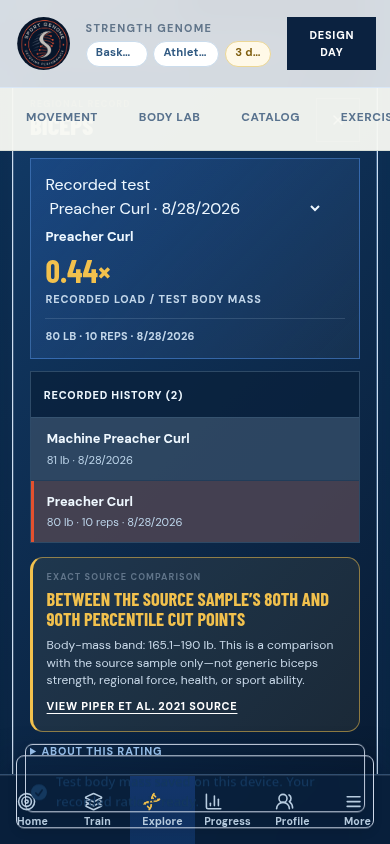
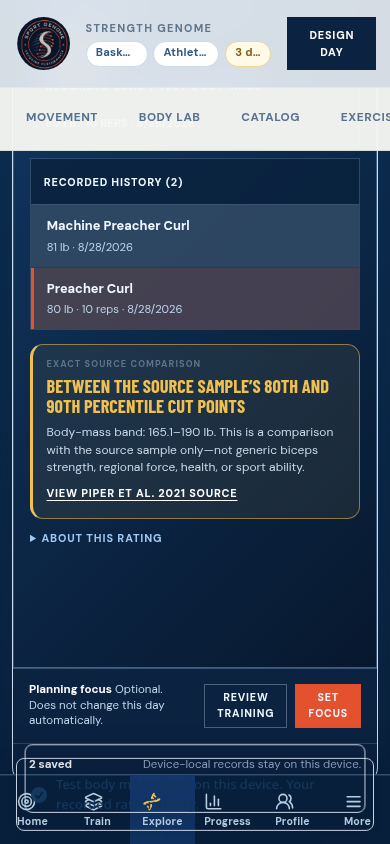
Checkpoint: Published the completed Strength Genome interaction-feedback refinement. Interactive body-map regions, the accessible selector, Review, close, history selection, and ratio completion use nonblocking optional browser feedback with visible pressed/focus states. The actual body-muscles SVG 

diff --git a/client/src/components/StrengthGenomePanel.tsx b/client/src/components/StrengthGenomePanel.tsx
@@ -62,6 +62,10 @@ export function StrengthBodyMassInput({ weightUnit, value, onChange }: { weightU
   return <label className="grid gap-1.5"><span className="text-[10px] font-bold uppercase tracking-[.12em] text-[#9eb3cb]">Body mass at test ({weightUnit})</span><input aria-label={`Body mass at test in ${weightUnitLabel(weightUnit)}`} inputMode="decimal" value={value} onChange={(event) => onChange(event.target.value.replace(/[^0-9.]/g, ""))} placeholder="Optional" className="h-11 rounded-xl border border-white/20 bg-white/5 px-3 text-sm text-white outline-none placeholder:text-[#829ab3] focus:border-[#5b9cf1] focus:ring-2 focus:ring-[#5b9cf1]/30" /></label>;
 }
 
+export function StrengthObservationReviewButton({ observation, onReview }: { observation: StrengthObservationRecord; onReview: (observation: StrengthObservationRecord) => void }) {
+  return <button type="button" onClick={() => { emitInteractionFeedback(); onReview(observation); }} className="strength-observation-review">Review</button>;
+}
+
 export function StrengthRegionRecordDetail({ region, observations, onClose, weightUnit, directAccess, onSetDeviceBodyMass, initialRecordId = "" }: { region: StrengthRegionDefinition; observations: StrengthObservationRecord[]; onClose: () => void; weightUnit: DisplayWeightUnit; directAccess: boolean; onSetDeviceBodyMass: (observationId: string, bodyMassKgAtTest: number) => void; initialRecordId?: string }) {
   const records = useMemo(() => observations.filter((observation) => resolveStrengthObservationRoute(observation.exerciseName)?.regionIds.includes(region.id)), [observations, region.id]);
   const utils = trpc.useUtils();
@@ -196,7 +200,6 @@ export function StrengthGenomePanel({ onOpenTraining = () => {}, weightUnit = "l
     const regionId = resolveStrengthObservationRoute(observation.exerciseName)?.regionIds[0];
     const region = strengthRegionDefinitions.find((candidate) => candidate.id === regionId);
     if (!region) return;
-    emitInteractionFeedback();
     setSelectedObservationId(String(observation.id));
     setSelectedRegion(region);
   };
@@ -264,7 +267,7 @@ export function StrengthGenomePanel({ onOpenTraining = () => {}, weightUnit = "l
           <span className="inline-flex items-center gap-2 rounded-full border border-[#c8d9e8] bg-white px-3 py-1.5 text-[10px] font-bold uppercase tracking-[.12em] text-[#42647f]"><CircleHelp className="h-3.5 w-3.5" /> {directAccess ? "This device only" : "Observation routing only"}</span>
         </div>
       </div>
-      <StrengthGenomeBodyMap regions={strengthRegionDefinitions.map((region) => ({ ...region, state: regionOverview(region.id)?.state === "OBSERVED_TEST_CONTEXT" ? "OBSERVED_TEST_CONTEXT" as const : "INSUFFICIENT_DATA" as const }))} activePriorityIds={activePriorityIds} selectedRegionId={selectedRegion?.id} onSelect={(region) => { emitInteractionFeedback(); setSelectedRegion(region); }} />
+      <StrengthGenomeBodyMap regions={strengthRegionDefinitions.map((region) => ({ ...region, state: regionOverview(region.id)?.state === "OBSERVED_TEST_CONTEXT" ? "OBSERVED_TEST_CONTEXT" as const : "INSUFFICIENT_DATA" as const }))} activePriorityIds={activePriorityIds} selectedRegionId={selectedRegion?.id} onSelect={setSelectedRegion} />
       {selectedRegion && <div ref={regionDetailRef}><StrengthRegionRecordDetail key={`${selectedRegion.id}-${selectedObservationId}`} region={selectedRegion} observations={activeObservations as StrengthObservationRecord[]} onClose={() => { setSelectedRegion(null); setSelectedObservationId(""); }} weightUnit={weightUnit} directAccess={directAccess} onSetDeviceBodyMass={setDeviceBodyMass} initialRecordId={selectedObservationId} /></div>}
       {selectedRegion && <div className="strength-region-focus-row"><p><strong>Planning focus</strong> Optional. Does not change this day automatically.</p><div><button type="button" onClick={() => { emitInteractionFeedback(); onOpenTraining(); }} className="strength-focus-secondary">Review training</button><button type="button" disabled={setPriority.isPending} onClick={() => { emitInteractionFeedback(); setPriority.mutate({ regionId: selectedRegion.id, active: !activePriorityIds.has(selectedRegion.id) }); }} className={`strength-focus-primary ${activePriorityIds.has(selectedRegion.id) ? "is-active" : ""}`}>{activePriorityIds.has(selectedRegion.id) ? "Focused" : "Set focus"}</button></div></div>}
       <div className="strength-observation-summary"><strong>{activeObservations.length} saved</strong><span>{directAccess ? (activeObservations.length ? "Device-local records stay on this device." : "Add a result to start a device-local record.") : (overview.data?.nextAction || "Add a result to build your record.")}</span></div>
@@ -297,7 +300,7 @@ export function StrengthGenomePanel({ onOpenTraining = () => {}, weightUnit = "l
         <button type="button" disabled={!canSave || addObservation.isPending} onClick={submit} className="mt-5 inline-flex min-h-12 items-center gap-2 rounded-xl bg-[#e4512e] px-4 text-[11px] font-bold uppercase tracking-[.12em] text-white transition active:scale-[.98] disabled:cursor-not-allowed disabled:opacity-50"><Plus className="h-4 w-4" /> {addObservation.isPending ? "Saving observation" : "Save performance observation"}</button>
       </section>
 
-      <aside className="light-panel p-5"><p className="metric-label">Recent observations</p><h2 className="mt-1 font-display text-3xl font-bold uppercase leading-none text-[#102947]">Performance log</h2>{recentObservations.length ? <div className="mt-4 divide-y divide-[#d9e5ef]">{recentObservations.map((observation) => <div key={observation.id} className="flex items-center justify-between gap-3 py-3 first:pt-0"><div><p className="text-sm font-bold text-[#153b61]">{observation.exerciseName}</p><p className="mt-1 text-[11px] text-[#607b91]">{observation.measurementType.replace(/_/g, " ")} · {new Date(observation.observedAt).toLocaleDateString()}</p></div>{directAccess && resolveStrengthObservationRoute(observation.exerciseName) && <button type="button" onClick={() => openSavedObservation(observation as StrengthObservationRecord)} className="shrink-0 rounded-lg border border-[#9fbddd] bg-white px-3 py-2 text-[10px] font-bold uppercase tracking-[.1em] text-[#1b5595]">Review</button>}</div>)}</div> : <div className="mt-4 rounded-xl border border-dashed border-[#c7d8e6] bg-[#f8fbff] p-4"><Activity className="h-5 w-5 text-[#2d6cdf]" /><p className="mt-3 text-sm font-bold text-[#153b61]">No performance data yet</p><p className="mt-1 text-xs leading-5 text-[#607b91]">One standardized result begins your private performance history. No regional strength tier is shown until supporting evidence is available.</p></div>}</aside>
+      <aside className="light-panel p-5"><p className="metric-label">Recent observations</p><h2 className="mt-1 font-display text-3xl font-bold uppercase leading-none text-[#102947]">Performance log</h2>{recentObservations.length ? <div className="mt-4 divide-y divide-[#d9e5ef]">{recentObservations.map((observation) => <div key={observation.id} className="flex items-center justify-between gap-3 py-3 first:pt-0"><div><p className="text-sm font-bold text-[#153b61]">{observation.exerciseName}</p><p className="mt-1 text-[11px] text-[#607b91]">{observation.measurementType.replace(/_/g, " ")} · {new Date(observation.observedAt).toLocaleDateString()}</p></div>{directAccess && resolveStrengthObservationRoute(observation.exerciseName) && <StrengthObservationReviewButton observation={observation as StrengthObservationRecord} onReview={openSavedObservation} />}</div>)}</div> : <div className="mt-4 rounded-xl border border-dashed border-[#c7d8e6] bg-[#f8fbff] p-4"><Activity className="h-5 w-5 text-[#2d6cdf]" /><p className="mt-3 text-sm font-bold text-[#153b61]">No performance data yet</p><p className="mt-1 text-xs leading-5 text-[#607b91]">One standardized result begins your private performance history. No regional strength tier is shown until supporting evidence is available.</p></div>}</aside>
     </div>
   </section>;
 }

diff --git a/client/src/components/StrengthGenomeBodyMap.feedback.interaction.test.ts b/client/src/components/StrengthGenomeBodyMap.feedback.interaction.test.ts
@@ -1,0 +1,66 @@
+// @vitest-environment jsdom
+import React from "react";
+import { fireEvent, render, screen } from "@testing-library/react";
+import { afterEach, describe, expect, it, vi } from "vitest";
+import { strengthRegionDefinitions } from "../../../shared/strengthGenomeDefinitions";
+
+const feedback = vi.hoisted(() => ({ emit: vi.fn() }));
+
+vi.mock("body-muscles", () => ({
+  ViewSide: { FRONT: "front", BACK: "back" },
+  BodyChart: class {
+    constructor(container: HTMLElement, options: { onMuscleClick: (muscleId: string) => void }) {
+      const svg = document.createElementNS("http://www.w3.org/2000/svg", "svg");
+      const path = document.createElementNS("http://www.w3.org/2000/svg", "path");
+      path.classList.add("body-chart-muscle");
+      path.setAttribute("role", "button");
+      path.setAttribute("tabindex", "0");
+      path.setAttribute("aria-label", "Biceps");
+      path.addEventListener("keydown", (event) => { if (event.key === "Enter" || event.key === " ") options.onMuscleClick("biceps-left"); });
+      svg.appendChild(path);
+      container.appendChild(svg);
+    }
+    update() {}
+    destroy() {}
+  },
+}));
+vi.mock("@/lib/interactionFeedback", () => ({ emitInteractionFeedback: feedback.emit }));
+
+import { StrengthGenomeBodyMap } from "./StrengthGenomeBodyMap";
+
+const biceps = strengthRegionDefinitions.find((region) => region.id === "biceps")!;
+const chest = strengthRegionDefinitions.find((region) => region.id === "chest")!;
+const regions = [
+  { ...biceps, state: "OBSERVED_TEST_CONTEXT" as const },
+  { ...chest, state: "INSUFFICIENT_DATA" as const },
+];
+
+describe("Strength Genome map interaction feedback", () => {
+  afterEach(() => { feedback.emit.mockReset(); document.body.innerHTML = ""; });
+
+  it("gives an optional feedback signal for the accessible recorded-region selection and view switch", () => {
+    const onSelect = vi.fn();
+    render(React.createElement(StrengthGenomeBodyMap, { regions, activePriorityIds: new Set<string>(), selectedRegionId: undefined, onSelect }));
+
+    fireEvent.click(screen.getByText("Choose a region"));
+    fireEvent.click(screen.getByText("Biceps"));
+    expect(onSelect).toHaveBeenCalledWith(expect.objectContaining(biceps));
+    expect(feedback.emit).toHaveBeenCalledTimes(1);
+
+    fireEvent.click(screen.getByRole("button", { name: "Back" }));
+    expect(feedback.emit).toHaveBeenCalledTimes(2);
+    expect(screen.getByRole("button", { name: "Front" })).toBeTruthy();
+  });
+
+  it("keeps a rendered muscle path keyboard-addressable and routes its activation through optional feedback", () => {
+    const onSelect = vi.fn();
+    render(React.createElement(StrengthGenomeBodyMap, { regions, activePriorityIds: new Set<string>(), selectedRegionId: undefined, onSelect }));
+    const muscle = document.querySelector<SVGPathElement>(".strength-body-chart .body-chart-muscle")!;
+    expect(muscle.getAttribute("role")).toBe("button");
+    expect(muscle.getAttribute("tabindex")).toBe("0");
+    expect(muscle.getAttribute("aria-label")).toBe("Biceps");
+    fireEvent.keyDown(muscle, { key: "Enter" });
+    expect(feedback.emit).toHaveBeenCalledTimes(1);
+    expect(onSelect).toHaveBeenCalledWith(expect.objectContaining(biceps));
+  });
+});

diff --git a/client/src/components/StrengthGenomeBodyMap.tsx b/client/src/components/StrengthGenomeBodyMap.tsx
@@ -3,6 +3,7 @@ import React from "react";
 import { BodyChart, ViewSide } from "body-muscles";
 import { RotateCw } from "lucide-react";
 import type { StrengthRegionDefinition } from "../../../shared/strengthGenomeDefinitions";
+import { emitInteractionFeedback } from "@/lib/interactionFeedback";
 
 type RegionState = "OBSERVED_TEST_CONTEXT" | "INSUFFICIENT_DATA";
 
@@ -44,7 +45,7 @@ export function StrengthGenomeBodyMap({ regions, activePriorityIds, selectedRegi
     try {
       chartRef.current = new BodyChart(mapRef.current, { view: view === "FRONT" ? ViewSide.FRONT : ViewSide.BACK, bodyState, enableTransitions: true, onMuscleClick: (muscleId: string) => {
         const region = regionById.get(regionByMuscle.get(muscleId) || "");
-        if (region) onSelect(region);
+        if (region) { emitInteractionFeedback(); onSelect(region); }
       } });
     } catch { setFailed(true); }
     return () => { chartRef.current?.destroy(); chartRef.current = null; };
@@ -52,12 +53,12 @@ export function StrengthGenomeBodyMap({ regions, activePriorityIds, selectedRegi
   useEffect(() => { chartRef.current?.update({ bodyState }); }, [bodyState]);
 
   return <section className="strength-body-map" aria-label="Interactive strength context body map">
-    <div className="strength-body-map-head"><div><p className="metric-label">Regional context map</p><h2>Tap a region to inspect <em>your record.</em></h2></div><button type="button" onClick={() => setView((current) => current === "FRONT" ? "BACK" : "FRONT")}><RotateCw className="h-4 w-4" /> {view === "FRONT" ? "Back" : "Front"}</button></div>
+    <div className="strength-body-map-head"><div><p className="metric-label">Regional context map</p><h2>Tap a region to inspect <em>your record.</em></h2></div><button type="button" onClick={() => { emitInteractionFeedback(); setView((current) => current === "FRONT" ? "BACK" : "FRONT"); }}><RotateCw className="h-4 w-4" /> {view === "FRONT" ? "Back" : "Front"}</button></div>
     {failed ? <p className="strength-body-map-fallback">The anatomy view is unavailable. Use a standardized observation to build your record.</p> : <div ref={mapRef} className="strength-body-chart" />}
     <details className="strength-map-region-selector">
       <summary>Choose a region</summary>
       <div role="list" aria-label="Strength Genome regions">
-        {regions.map((region) => <button key={region.id} type="button" role="listitem" aria-pressed={selectedRegionId === region.id} onClick={() => onSelect(region)}><span>{region.label}</span><small>{region.state === "OBSERVED_TEST_CONTEXT" ? "Recorded" : "No test"}</small></button>)}
+        {regions.map((region) => <button key={region.id} type="button" role="listitem" aria-pressed={selectedRegionId === region.id} onClick={() => { emitInteractionFeedback(); onSelect(region); }}><span>{region.label}</span><small>{region.state === "OBSERVED_TEST_CONTEXT" ? "Recorded" : "No test"}</small></button>)}
       </div>
     </details>
     <div className="strength-body-map-legend"><span><i className="strength-map-observed" /> Recorded test context</span><span><i className="strength-map-focus" /> Athlete-selected focus</span><span><i className="strength-map-empty" /> No mapped test context</span></div>

diff --git a/client/src/components/StrengthGenomePanel.review.interaction.test.ts b/client/src/components/StrengthGenomePanel.review.interaction.test.ts
@@ -1,0 +1,46 @@
+// @vitest-environment jsdom
+import React from "react";
+import { fireEvent, render, screen } from "@testing-library/react";
+import { afterEach, beforeEach, describe, expect, it, vi } from "vitest";
+
+const mocks = vi.hoisted(() => ({ feedback: vi.fn(), mutate: vi.fn(), invalidate: vi.fn().mockResolvedValue(undefined) }));
+
+vi.mock("@/lib/trpc", () => ({
+  trpc: {
+    useUtils: () => ({ strengthGenome: { overview: { invalidate: mocks.invalidate }, observations: { invalidate: mocks.invalidate }, priorities: { invalidate: mocks.invalidate } } }),
+    strengthGenome: {
+      overview: { useQuery: () => ({ data: { regions: [], athleteConfirmedPriorityRegionIds: [], nextAction: "Add a result" } }) },
+      observations: { useQuery: () => ({ data: [] }) },
+      priorities: { useQuery: () => ({ data: [] }) },
+      addObservation: { useMutation: () => ({ mutate: mocks.mutate, isPending: false }) },
+      setPriority: { useMutation: () => ({ mutate: mocks.mutate, isPending: false }) },
+      setObservationBodyMass: { useMutation: () => ({ mutate: mocks.mutate, isPending: false }) },
+    },
+  },
+}));
+vi.mock("body-muscles", () => ({ ViewSide: { FRONT: "front", BACK: "back" }, BodyChart: class { update() {} destroy() {} } }));
+vi.mock("@/lib/interactionFeedback", () => ({ emitInteractionFeedback: mocks.feedback }));
+vi.mock("sonner", () => ({ toast: { success: vi.fn(), error: vi.fn() } }));
+
+import { deviceStrengthObservationKey } from "@/lib/deviceStrengthObservations";
+import { StrengthGenomePanel } from "./StrengthGenomePanel";
+
+describe("Strength Genome direct Review workflow", () => {
+  beforeEach(() => {
+    mocks.feedback.mockReset();
+    localStorage.setItem(deviceStrengthObservationKey, JSON.stringify([{ id: "device-review", exerciseName: "Preacher Curl", observedAt: "2026-08-28T12:00:00.000Z", measurementType: "MULTI_REP", loadKg: 36.2873896, repetitions: 10, bodyMassKgAtTest: 81.6466266 }]));
+    vi.stubGlobal("requestAnimationFrame", (callback: FrameRequestCallback) => { callback(0); return 1; });
+    vi.stubGlobal("cancelAnimationFrame", vi.fn());
+    vi.stubGlobal("scrollTo", vi.fn());
+  });
+
+  afterEach(() => { document.body.innerHTML = ""; localStorage.clear(); vi.unstubAllGlobals(); });
+
+  it("opens the routed biceps record detail from the rendered Review action with optional feedback", () => {
+    render(React.createElement(StrengthGenomePanel, { directAccess: true, weightUnit: "lb" }));
+    fireEvent.click(screen.getByRole("button", { name: "Review" }));
+    expect(mocks.feedback).toHaveBeenCalledTimes(1);
+    expect(screen.getByRole("region", { name: "Biceps recorded strength context" })).toBeTruthy();
+    expect(screen.getByText("Recorded load / test body mass")).toBeTruthy();
+  });
+});

diff --git a/client/src/components/StrengthRegionRecordDetail.interaction.test.ts b/client/src/components/StrengthRegionRecordDetail.interaction.test.ts
@@ -8,6 +8,7 @@ const mocks = vi.hoisted(() => ({
   bodyMassMutation: { mutate: vi.fn(), isPending: false },
   mutationOptions: null as null | { onSuccess: () => Promise<void>; onError: () => void },
   invalidate: vi.fn(),
+  feedback: vi.fn(),
 }));
 
 vi.mock("@/lib/trpc", () => ({
@@ -24,7 +25,7 @@ vi.mock("@/lib/trpc", () => ({
   },
 }));
 vi.mock("sonner", () => ({ toast: { success: vi.fn(), error: vi.fn() } }));
-vi.mock("@/lib/interactionFeedback", () => ({ emitInteractionFeedback: vi.fn() }));
+vi.mock("@/lib/interactionFeedback", () => ({ emitInteractionFeedback: mocks.feedback }));
 
 import { StrengthRegionRecordDetail } from "./StrengthGenomePanel";
 
@@ -48,6 +49,7 @@ describe("Strength region body-mass completion", () => {
     mocks.bodyMassMutation.isPending = false;
     mocks.mutationOptions = null;
     mocks.invalidate.mockReset();
+    mocks.feedback.mockReset();
   });
 
   it("submits an account-backed missing body mass and shows the selected-record ratio after refreshed data returns", async () => {
@@ -87,5 +89,25 @@ describe("Strength region body-mass completion", () => {
     fireEvent.click(screen.getByRole("button", { name: "Calculate ratio" }));
     expect(setDeviceBodyMass).toHaveBeenCalledWith("101", 81.6466266);
     expect(mocks.bodyMassMutation.mutate).not.toHaveBeenCalled();
+    expect(mocks.feedback).toHaveBeenCalledWith([10, 30, 10]);
+  });
+
+  it("uses optional feedback for direct ratio completion, record-history selection, and close", () => {
+    const onClose = vi.fn();
+    const alternate = { ...missingBodyMassObservation[0], id: 102, exerciseName: "Machine Preacher Curl", loadKg: 40, bodyMassKgAtTest: 81.6466266 };
+    renderDetail({ directAccess: true, onSetDeviceBodyMass: vi.fn(), onClose, observations: [missingBodyMassObservation[0], alternate] });
+
+    fireEvent.change(screen.getByLabelText("Body mass on test day in pounds"), { target: { value: "180" } });
+    fireEvent.click(screen.getByRole("button", { name: "Calculate ratio" }));
+    expect(mocks.feedback).toHaveBeenCalledWith([10, 30, 10]);
+
+    fireEvent.click(screen.getByText("Recorded history (2)"));
+    fireEvent.click(screen.getByText("Machine Preacher Curl"));
+    expect(mocks.feedback).toHaveBeenCalledTimes(2);
+
+    expect(screen.getByRole("button", { name: "Close Biceps detail" }).className).toContain("strength-region-close");
+    fireEvent.click(screen.getByRole("button", { name: "Close Biceps detail" }));
+    expect(onClose).toHaveBeenCalledTimes(1);
+    expect(mocks.feedback).toHaveBeenCalledTimes(3);
   });
 });

diff --git a/client/src/index.css b/client/src/index.css
@@ -903,6 +903,13 @@ select {
 .strength-piper-fields span { color: #9eb3cb; font-size: .64rem; font-weight: 800; letter-spacing: .08em; text-transform: uppercase; }
 .strength-piper-fields select, .strength-piper-fields input[inputmode] { min-height: 2.6rem; border: 1px solid rgb(255 255 255 / .2); border-radius: .5rem; background: rgb(255 255 255 / .05); color: #fff; padding: 0 .7rem; }
 .strength-piper-fields input[type="checkbox"] { width: 1rem; height: 1rem; margin-top: .05rem; accent-color: #f2c14d; }
+.strength-body-chart .body-chart-muscle { cursor: pointer; transform-box: fill-box; transform-origin: center; transition: transform 140ms var(--ease-out), filter 140ms var(--ease-out), stroke 140ms var(--ease-out); }
+.strength-body-chart .body-chart-muscle:active { transform: scale(.98); filter: brightness(1.22); stroke: #f2c14d; stroke-width: 3px; }
+.strength-body-chart .body-chart-muscle:focus-visible { outline: none; stroke: #f2c14d; stroke-width: 3px; filter: brightness(1.18); }
+.strength-reference-matched { scroll-margin-bottom: calc(11rem + env(safe-area-inset-bottom)); }
+.strength-body-map-head button, .strength-map-region-selector button, .strength-region-close, .strength-region-history button, .strength-ratio-entry button, .strength-observation-review, .strength-reference-matched a { transition: transform 140ms var(--ease-out), filter 140ms var(--ease-out), background-color 140ms var(--ease-out); }
+.strength-body-map-head button:active, .strength-map-region-selector button:active, .strength-region-close:active, .strength-region-history button:active, .strength-ratio-entry button:active, .strength-observation-review:active, .strength-reference-matched a:active { transform: scale(.97); filter: brightness(1.12); }
+.strength-map-region-selector button:focus-visible, .strength-region-history button:focus-visible, .strength-ratio-entry button:focus-visible, .strength-region-close:focus-visible, .strength-observation-review:focus-visible { outline: 2px solid #f2c14d; outline-offset: 2px; }
 
 @media (max-width: 720px) {
   .apex-content.destination-explore:has(.strength-region-record-detail) { padding-bottom: calc(8.5rem + env(safe-area-inset-bottom)); }

diff --git a/client/src/components/StrengthObservationReviewButton.interaction.test.ts b/client/src/components/StrengthObservationReviewButton.interaction.test.ts
@@ -1,0 +1,24 @@
+// @vitest-environment jsdom
+import React from "react";
+import { fireEvent, render, screen } from "@testing-library/react";
+import { afterEach, describe, expect, it, vi } from "vitest";
+
+const feedback = vi.hoisted(() => ({ emit: vi.fn() }));
+vi.mock("@/lib/interactionFeedback", () => ({ emitInteractionFeedback: feedback.emit }));
+vi.mock("@/lib/trpc", () => ({ trpc: { useUtils: () => ({}), strengthGenome: {} } }));
+
+import { StrengthObservationReviewButton } from "./StrengthGenomePanel";
+
+describe("Strength observation Review action", () => {
+  afterEach(() => { feedback.emit.mockReset(); document.body.innerHTML = ""; });
+
+  it("gives optional feedback and passes the saved observation into the region-detail opener", () => {
+    const observation = { id: "local-1", exerciseName: "Preacher Curl", observedAt: "2026-08-28T12:00:00.000Z", measurementType: "MULTI_REP", loadKg: 36, repetitions: 10 };
+    const onReview = vi.fn();
+    render(React.createElement(StrengthObservationReviewButton, { observation, onReview }));
+    expect(screen.getByRole("button", { name: "Review" }).className).toContain("strength-observation-review");
+    fireEvent.click(screen.getByRole("button", { name: "Review" }));
+    expect(feedback.emit).toHaveBeenCalledTimes(1);
+    expect(onReview).toHaveBeenCalledWith(observation);
+  });
+});

diff --git a/client/src/components/StrengthGenomeBodyMap.feedback.test.ts b/client/src/components/StrengthGenomeBodyMap.feedback.test.ts
@@ -1,0 +1,22 @@
+import { describe, expect, it } from "vitest";
+import { readFileSync } from "node:fs";
+
+const source = readFileSync(new URL("./StrengthGenomeBodyMap.tsx", import.meta.url), "utf8");
+const styles = readFileSync(new URL("../index.css", import.meta.url), "utf8");
+
+describe("Strength Genome interaction feedback", () => {
+  it("uses the optional nonblocking feedback helper for muscle-map, selector, and view-switch actions", () => {
+    expect(source).toContain('import { emitInteractionFeedback } from "@/lib/interactionFeedback"');
+    expect((source.match(/emitInteractionFeedback\(\)/g) || []).length).toBeGreaterThanOrEqual(3);
+    expect(source).toContain('if (region) { emitInteractionFeedback(); onSelect(region); }');
+  });
+
+  it("provides a visual pressed state and visible keyboard focus for map and regional-detail actions", () => {
+    expect(styles).toContain(".strength-map-region-selector button:active");
+    expect(styles).toContain(".strength-body-chart .body-chart-muscle:active");
+    expect(styles).toContain(".strength-body-chart .body-chart-muscle:focus-visible");
+    expect(styles).toContain(".strength-region-history button:active");
+    expect(styles).toContain(".strength-ratio-entry button:active");
+    expect(styles).toContain(".strength-map-region-selector button:focus-visible");
+  });
+});

diff --git a/client/src/components/BodyMusclesRenderer.accessibility.test.ts b/client/src/components/BodyMusclesRenderer.accessibility.test.ts
@@ -1,0 +1,24 @@
+// @vitest-environment jsdom
+import { fireEvent } from "@testing-library/react";
+import { afterEach, describe, expect, it, vi } from "vitest";
+import { BodyChart, ViewSide } from "body-muscles";
+
+describe("body-muscles renderer accessibility contract", () => {
+  afterEach(() => { document.body.innerHTML = ""; });
+
+  it("renders real muscle paths as keyboard-addressable buttons and activates on Enter", () => {
+    const onMuscleClick = vi.fn();
+    const container = document.createElement("div");
+    document.body.appendChild(container);
+    const chart = new BodyChart(container, { view: ViewSide.FRONT, bodyState: {}, onMuscleClick });
+    const muscle = container.querySelector<SVGPathElement>(".body-chart-muscle")!;
+
+    expect(muscle).toBeTruthy();
+    expect(muscle.getAttribute("role")).toBe("button");
+    expect(muscle.getAttribute("tabindex")).toBe("0");
+    expect(muscle.querySelector("title")?.textContent).toBeTruthy();
+    fireEvent.keyDown(muscle, { key: "Enter" });
+    expect(onMuscleClick).toHaveBeenCalledTimes(1);
+    chart.destroy();
+  });
+});

diff --git a/client/src/components/StrengthGenomePanel.test.ts b/client/src/components/StrengthGenomePanel.test.ts
@@ -13,7 +13,7 @@ describe("Strength Genome panel", () => {
     expect(source).toContain("new Date(`${observedDate}T12:00:00`)");
     expect(source).toContain("They do not create a body-mass ratio, universal estimate, tier, or population comparison.");
     expect(source).toContain("No regional strength tier is shown until supporting evidence is available.");
-    expect(source).toContain("onSelect={(region) => { emitInteractionFeedback(); setSelectedRegion(region); }}");
+    expect(source).toContain("onSelect={setSelectedRegion}");
     expect(source).toContain("Regional record");
     expect(source).toContain("Planning focus");
     expect(source).toContain('active: !activePriorityIds.has(selectedRegion.id)');

diff --git a/client/src/components/StrengthGenomeBodyMap.accessibility.test.ts b/client/src/components/StrengthGenomeBodyMap.accessibility.test.ts
@@ -12,7 +12,7 @@ describe("Strength Genome body-map accessible region selection", () => {
     expect(source).toContain('aria-label="Strength Genome regions"');
     expect(source).toContain('aria-pressed={selectedRegionId === region.id}');
     expect(source).toContain('region.state === "OBSERVED_TEST_CONTEXT" ? "Recorded" : "No test"');
-    expect(source).toContain('onClick={() => onSelect(region)}');
+    expect(source).toContain('onClick={() => { emitInteractionFeedback(); onSelect(region); }}');
     expect(selector).not.toContain("percentile");
     expect(styles).toContain(".strength-map-region-selector button { min-height: 44px");
   });

diff --git a/todo.md b/todo.md
@@ -37,9 +37,20 @@
 - [x] Keep a failed account-backed body-mass value in place and provide inline retry guidance without affecting device-local completion.
 - [x] Add an interaction regression that mocks account-backed body-mass save success and confirms the selected-region ratio appears after mutation completion.
 - [x] Add an interaction regression that mocks account-backed body-mass save failure and confirms loading state, inline alert, preserved value, and retry behavior.
-- [ ] Test the account-backed body-mass completion pending state with visible saving text and `aria-busy` before driving its error and retry path.
+- [x] Test the account-backed body-mass completion pending state with visible saving text and `aria-busy` before driving its error and retry path.
 - [x] Confirm the direct-access body-mass completion flow remains local and unaffected by account-save failure handling.
-- [ ] Verify the interaction-feedback utility behavior and visible press states for Strength map regions and region-detail actions without claiming native iPhone web haptics.
+- [x] Verify the interaction-feedback utility behavior and visible press states for Strength map regions and region-detail actions without claiming native iPhone web haptics.
+- [x] Apply and test visible pressed-state feedback on Strength map-region, record-history, review, close, and ratio-completion actions while retaining optional browser vibration only.
+- [x] Wire optional nonblocking feedback into Strength region-detail close, record-history selection, review, and ratio-completion actions.
+- [x] Add behavioral region-detail interaction coverage for optional feedback on close, history selection, review, and ratio completion alongside pressed-state CSS safeguards.
+- [x] Confirm the rendered saved-record Review action invokes optional feedback, opens its routed region detail, and has an equivalent visible pressed state.
+- [x] Add an integrated Strength Genome panel test that clicks a rendered device-local Review control and opens its routed regional detail.
+- [x] Implement and test a visible keyboard and pressed state for actual clickable body-map muscle regions, not only the accessible selector fallback.
+- [x] Add rendered SVG evidence that a real body-map muscle path exposes button keyboard semantics and the dedicated pressed/focus styling hooks.
+- [x] Extend interaction-style coverage to assert rendered Review and Close controls carry their dedicated pressed-state class hooks.
+- [x] Browser-verify the actual mounted body-muscles SVG paths expose keyboard button semantics and `.body-chart-muscle` pressed/focus hooks.
+- [x] Add a jsdom regression against the actual `body-muscles` renderer output rather than a mocked chart path.
+- [x] Ensure a Strength body-map region selection emits one optional feedback signal rather than duplicating it through nested callbacks.
 - [x] Add source-level regression coverage confirming browser vibration is optional and non-blocking when unavailable.
 - [x] Show selected-region raw load-to-body-mass ratios only when both athlete-entered test load and body mass from that same test are recorded.
 - [x] Label body-mass-relative values as test-specific recorded ratios and keep percentiles, generic ranks, and regional force scores unavailable.
@@ -121,6 +132,7 @@
 - [x] Audit the mounted Explore, Progress, Profile, and More canvases at phone width before applying destination-specific surface refinements.
 - [ ] Establish accessible dark-surface typography, panel, divider, and interaction tokens so the destination themes remain cohesive and readable.
 - [x] Ensure Strength Genome selected-record and source-comparison detail content has sufficient bottom safe-area clearance above the fixed six-destination mobile navigation.
+- [x] Ensure programmatic navigation to a matched Strength source-comparison card respects the mobile bottom-nav safe area as well as manual scrolling.
 - [x] Reduce repeated Progress empty-state and methodology copy to concise recorded-status cards with one relevant next action.
 - [x] Retain comparison-condition explanation in an optional disclosure rather than the default Progress canvas.
 - [ ] Reduce Training Day’s default canvas to day selection, saved stack, split-target index, and one next action; move diagnostics, preparation detail, and catalog expansion behind Train contextual tabs or disclosures.
